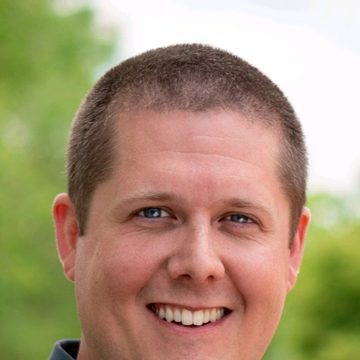
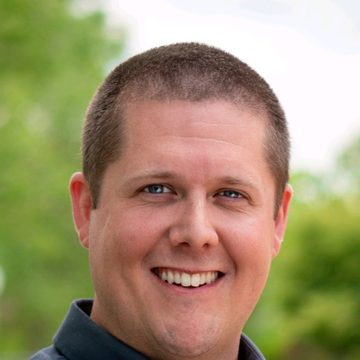
portfolio update fixed headshot crop

diff --git a/index.html b/index.html
@@ -1,8 +1,9 @@
 <!doctype html>
-<html lang="en">
+<html lang="en" data-theme="light">
 <head>
 <meta charset="utf-8">
 <meta name="viewport" content="width=device-width, initial-scale=1">
+<meta name="color-scheme" content="light">
 <title>Eric D. Jones | Instructional Designer</title>
 <meta name="description" content="Portfolio of Eric D. Jones, instructional designer specializing in customer education and eLearning built in Articulate Rise 360 and Storyline.">
 <link rel="preconnect" href="https://fonts.googleapis.com">

diff --git a/case-ai-prompts.html b/case-ai-prompts.html
@@ -1,8 +1,9 @@
 <!doctype html>
-<html lang="en">
+<html lang="en" data-theme="light">
 <head>
 <meta charset="utf-8">
 <meta name="viewport" content="width=device-width, initial-scale=1">
+<meta name="color-scheme" content="light">
 <title>AI in the design workflow | Eric D. Jones</title>
 <meta name="description" content="How Eric D. Jones built a 15-prompt AI toolkit with guardrails so two instructional designers could build consistent courses.">
 <link rel="preconnect" href="https://fonts.googleapis.com">

diff --git a/case-library-migration.html b/case-library-migration.html
@@ -1,8 +1,9 @@
 <!doctype html>
-<html lang="en">
+<html lang="en" data-theme="light">
 <head>
 <meta charset="utf-8">
 <meta name="viewport" content="width=device-width, initial-scale=1">
+<meta name="color-scheme" content="light">
 <title>Modernizing a legacy course library | Eric D. Jones</title>
 <meta name="description" content="How Eric D. Jones rebuilt 10 legacy Storyline courses in Rise 360, each with a hands-on practice simulation.">
 <link rel="preconnect" href="https://fonts.googleapis.com">

diff --git a/case-onboarding-program.html b/case-onboarding-program.html
@@ -1,8 +1,9 @@
 <!doctype html>
-<html lang="en">
+<html lang="en" data-theme="light">
 <head>
 <meta charset="utf-8">
 <meta name="viewport" content="width=device-width, initial-scale=1">
+<meta name="color-scheme" content="light">
 <title>A six-course onboarding program | Eric D. Jones</title>
 <meta name="description" content="How Eric D. Jones designed Single User Shop Essentials, a self-guided onboarding program for small repair shops.">
 <link rel="preconnect" href="https://fonts.googleapis.com">

diff --git a/case-two-audiences.html b/case-two-audiences.html
@@ -1,8 +1,9 @@
 <!doctype html>
-<html lang="en">
+<html lang="en" data-theme="light">
 <head>
 <meta charset="utf-8">
 <meta name="viewport" content="width=device-width, initial-scale=1">
+<meta name="color-scheme" content="light">
 <title>One course, two audiences | Eric D. Jones</title>
 <meta name="description" content="How Eric D. Jones built customer-facing and internal versions of new-product training for a reimagined SaaS platform.">
 <link rel="preconnect" href="https://fonts.googleapis.com">

diff --git a/case-sample-course.html b/case-sample-course.html
@@ -1,8 +1,9 @@
 <!doctype html>
-<html lang="en">
+<html lang="en" data-theme="light">
 <head>
 <meta charset="utf-8">
 <meta name="viewport" content="width=device-width, initial-scale=1">
+<meta name="color-scheme" content="light">
 <title>Sample course design brief | Eric D. Jones</title>
 <meta name="description" content="Design brief for Create and Invoice Your First Work Order, an original sample course by Eric D. Jones.">
 <link rel="preconnect" href="https://fonts.googleapis.com">
